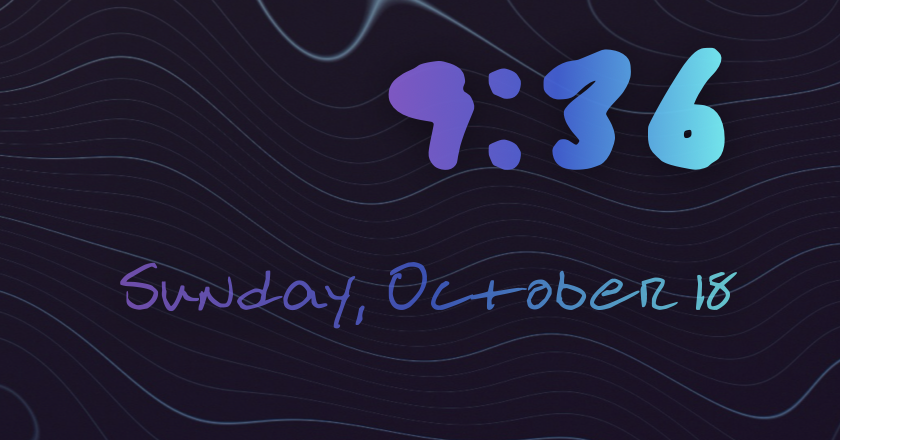
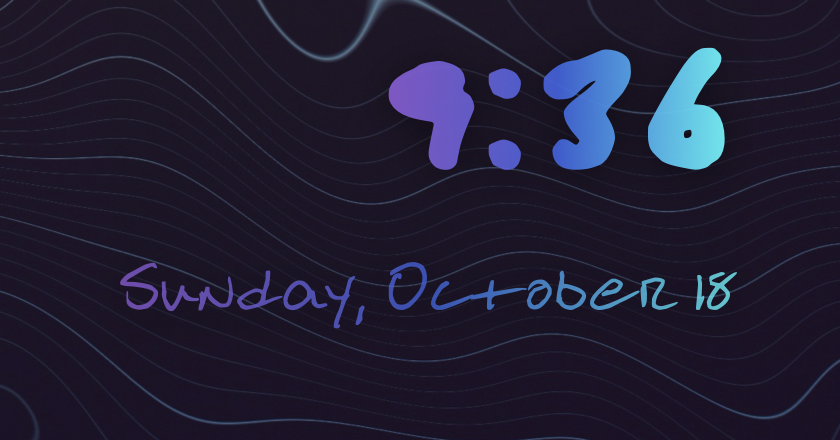
content(sanduhr): review fixes on both pages
From the copy review: the home card no longer says claude.ai is the only
network call (the app also checks for its own updates); the per-model card
names no single model; the config lead names one page, Mods & Config; meta
titles take a colon instead of an em-dash; the Windows headings take their
periods. From the asset review: the clock capture loses its blank strip, the
notch capture is centered, and the 2.4-era Accounts pane, captured from an
older build than the rest of the set, goes. The hero showcase runs wide, the
notch pane joins the Settings strip, the stage pills are shorter, and the
config pillar gains its sixth card, receipts with exact undo.

diff --git a/sanduhr/index.html b/sanduhr/index.html
@@ -4,7 +4,7 @@
 <meta charset="utf-8" />
 <meta name="viewport" content="width=device-width,initial-scale=1" />
 <meta name="release-reviewed" content="estevanhernandez-stack-ed/Sanduhr_f-r_Claude@v2.27.0-mac" />
-<title>Sanduhr für Claude for Mac — your claude.ai meters on the desktop, and your Claude Code setup carried · 626 Labs</title>
+<title>Sanduhr für Claude for Mac: your claude.ai meters on the desktop, and your Claude Code setup carried · 626 Labs</title>
 <meta name="description" content="The Mac build of Sanduhr für Claude: your claude.ai usage meters living on the desktop and around the notch, and one Settings page that reads and carries your whole Claude Code setup. Notarized, on Homebrew, macOS 14 or newer." />
 <link rel="canonical" href="https://626labs.dev/sanduhr/" />
 <meta property="og:title" content="Sanduhr für Claude for Mac" />
@@ -724,7 +724,7 @@ ol.steps li::before{ content:counter(step); position:absolute; left:0; top:-1px;
   </section>
 
   <section>
-    <div class="showcase"><div class="showcase-frame">
+    <div class="showcase wide"><div class="showcase-frame">
       <img src="screenshot-desk-full.jpg" alt="The Desk on a bare Mac desktop: Session, Weekly All Models and Weekly Sonnet meters in the top left corner, each with a pace mark and its reset time; a handwritten daily line, the Work account&#x27;s numbers and three made-up meetings in the bottom left; the clock and date in the bottom right; the time and the meters on the notch" />
     </div></div>
   </section>
@@ -804,10 +804,6 @@ ol.steps li::before{ content:counter(step); position:absolute; left:0; top:-1px;
     </div>
 
     <div class="gallery-strip align-start">
-      <div class="gallery-shot">
-        <img src="screenshot-settings-notch.png" alt="Sanduhr Settings, Notch: the island around the camera switched on, Text beside the camera with the left wing set to Time and the right wing to Now playing, Text under the camera off, and a Test Glow button above the preview" loading="lazy" />
-        <div class="caption"><strong>Notch settings</strong> &middot; each wing and the strip, your pick</div>
-      </div>
     </div>
       <div class="gallery-shot wide">
         <img src="screenshot-notch-wings.png" alt="The notch on a MacBook widened into one black island: the time on the left wing, and 5h 42% and wk 63% on the right" loading="lazy" />
@@ -820,7 +816,7 @@ ol.steps li::before{ content:counter(step); position:absolute; left:0; top:-1px;
       <h2>Your Claude Code setup, seen and carried.</h2>
     </div>
 
-    <p class="lead">Settings &rarr; Claude Code, and Mods &amp; Config: one page per Claude Code folder that reads everything first and writes only through receipts you can undo.</p>
+    <p class="lead">Mods &amp; Config, under Settings &rarr; Claude Code: one page per Claude Code folder that reads everything first and writes only through receipts you can undo.</p>
 
     <div class="cards">
       <div class="card">
@@ -843,14 +839,18 @@ ol.steps li::before{ content:counter(step); position:absolute; left:0; top:-1px;
         <h3>Claude writes your messages and themes</h3>
         <p>With the MCP server installed, Claude Code can suggest Desk messages, with effects like a glow or a line written in by hand, and propose widget themes as a live preview. Nothing changes until you approve it.</p>
       </div>
+      <div class="card">
+        <h3>Receipts, with exact undo</h3>
+        <p>Every write Sanduhr makes to a Claude Code folder is a receipt: what it created, and the bytes it replaced. Remove and Undo put the file back byte for byte, and the backups live in Sanduhr's own folder, never in yours.</p>
+      </div>
     </div>
 
     <ul class="stages">
-      <li><b>1</b><strong>Export.</strong> Pick a folder; the sheet shows what travels and what stays home.</li>
-      <li><b>2</b><strong>The pack.</strong> A manifest plus plain files. Secrets travel as names, never values.</li>
-      <li><b>3</b><strong>Import.</strong> Open the pack into any folder, on any Mac.</li>
-      <li><b>4</b><strong>Compare.</strong> A checkbox per difference; only what that folder lacks comes over.</li>
-      <li><b>5</b><strong>Keep, or undo.</strong> Every write is a receipt; Undo Import reverses them all.</li>
+      <li><b>1</b><strong>Export.</strong> Pick a folder; see what travels.</li>
+      <li><b>2</b><strong>Pack.</strong> Plain files plus a manifest; secrets as names.</li>
+      <li><b>3</b><strong>Import.</strong> Open it into any folder, on any Mac.</li>
+      <li><b>4</b><strong>Compare.</strong> A checkbox per difference.</li>
+      <li><b>5</b><strong>Keep, or undo.</strong> One Undo Import reverses it all.</li>
     </ul>
   </section>
 
@@ -920,10 +920,10 @@ ol.steps li::before{ content:counter(step); position:absolute; left:0; top:-1px;
       </div>
       <div class="card">
         <h3>Per-model weekly meters</h3>
-        <p>Your Claude Fable 5 allowance, tracked automatically. When Anthropic adds a limit for any new model, its meter just appears, no update needed.</p>
+        <p>Each per-model weekly allowance, tracked automatically. When Anthropic adds a limit for any new model, its meter just appears, no update needed.</p>
       </div>
       <div class="card">
-        <h3>Claude Usage tab + local vault</h3>
+        <h3>Claude Usage page + local vault</h3>
         <p>Local Claude Code logs become a dashboard: sessions by project with agent roll-up, weekly trends, a clickable calendar, sent/received splits, CSV export, and an opt-in vault that outlives the CLI's 30-day log cleanup.</p>
       </div>
       <div class="card">
@@ -961,10 +961,6 @@ ol.steps li::before{ content:counter(step); position:absolute; left:0; top:-1px;
       <div class="gallery-shot">
         <img src="screenshot-settings-alerts.png" alt="Sanduhr Settings, Alerts: Notifications off, Session and Weekly thresholds at 80%, the pace warning and reset notices unchecked, Where alerts show set to Banner, a Sound picker and Quiet hours from 10:00 PM to 7:00 AM" loading="lazy" />
         <div class="caption"><strong>Alerts</strong> &middot; thresholds, the pace warning, quiet hours</div>
-      </div>
-      <div class="gallery-shot">
-        <img src="screenshot-accounts.png" alt="Sanduhr Settings, Accounts: the account list with Work active, its session key field, Sign Out and Remove Account" loading="lazy" />
-        <div class="caption"><strong>Accounts</strong> &middot; one key and one history each</div>
       </div>
     </div>
   </section>

diff --git a/sanduhr/windows/index.html b/sanduhr/windows/index.html
@@ -4,7 +4,7 @@
 <meta charset="utf-8" />
 <meta name="viewport" content="width=device-width,initial-scale=1" />
 <meta name="release-reviewed" content="estevanhernandez-stack-ed/Sanduhr_f-r_Claude@v3.4.3" />
-<title>Sanduhr für Claude on Windows — your claude.ai usage, paced, from the Microsoft Store · 626 Labs</title>
+<title>Sanduhr für Claude on Windows: your claude.ai usage, paced, from the Microsoft Store · 626 Labs</title>
 <meta name="description" content="The Windows build of Sanduhr für Claude: a native .NET widget with Win11 Mica glass that paces your claude.ai usage, plus a statusline and MCP server for Claude Code. Free on the Microsoft Store." />
 <link rel="canonical" href="https://626labs.dev/sanduhr/windows/" />
 <meta property="og:title" content="Sanduhr für Claude on Windows" />
@@ -744,7 +744,7 @@ ol.steps li::before{ content:counter(step); position:absolute; left:0; top:-1px;
       </div>
       <div class="card">
         <h3>Per-model weekly meters</h3>
-        <p>Your Claude Fable 5 allowance, tracked automatically. When Anthropic adds a limit for any new model, its meter just appears, no update needed.</p>
+        <p>Each per-model weekly allowance, tracked automatically. When Anthropic adds a limit for any new model, its meter just appears, no update needed.</p>
       </div>
       <div class="card">
         <h3>Claude Usage tab + local vault</h3>
@@ -790,7 +790,7 @@ ol.steps li::before{ content:counter(step); position:absolute; left:0; top:-1px;
 
   <section id="install">
     <div class="section-hd">
-      <h2>Install</h2>
+      <h2>Install.</h2>
     </div>
 
     <div class="install-grid">
@@ -822,7 +822,7 @@ ol.steps li::before{ content:counter(step); position:absolute; left:0; top:-1px;
 
   <section>
     <div class="section-hd">
-      <h2>Where it ended up</h2>
+      <h2>Where it ended up.</h2>
     </div>
 
     <p class="lead">Every Microsoft Store install since launch, plotted by country. Dot area is proportional to install count.</p>

diff --git a/index.html b/index.html
@@ -2074,7 +2074,7 @@
           </div>
         </div>
         <h3>Sanduhr für Claude</h3>
-        <p class="product-desc">On the Mac, your claude.ai usage meters live on the desktop and around the notch: session and weekly limits drawn under your windows with a pace mark and reset time on each, the clock, your next meetings and a daily line in a handwritten face, and since 2.27.0 the Desk can sit under your desktop files. One Settings page reads your whole Claude Code setup, agents, skills, plugins, MCP servers and settings per folder, and carries it to another Mac as a config pack with Compare and Undo Import. Burn-rate projection, pace markers, sparklines and per-model weekly meters do the pacing math; the Claude Usage page turns local Claude Code logs into a dashboard. Homebrew or a notarized .dmg on Mac; free on the Microsoft Store on Windows, with a statusline and MCP server for Claude Code. No telemetry: the only network call is to claude.ai with your own cookie.</p>
+        <p class="product-desc">On the Mac, your claude.ai usage meters live on the desktop and around the notch: session and weekly limits drawn under your windows with a pace mark and reset time on each, the clock, your next meetings and a daily line in a handwritten face. Since 2.27.0 the Desk can sit under your desktop files. One Settings page reads your whole Claude Code setup per folder and carries it to another Mac as a config pack, with Compare and Undo Import. Homebrew or a notarized .dmg on Mac; free on the Microsoft Store on Windows, with a statusline and MCP server for Claude Code. No telemetry: it talks to claude.ai with your own cookie, checks for its own updates, and nothing else.</p>
         <div class="repo-meter" data-repo="estevanhernandez-stack-ed/Sanduhr_f-r_Claude" aria-label="Commit activity for Sanduhr für Claude"></div>
         <div class="badge-row">
           <a class="store-badge" href="https://apps.microsoft.com/detail/9NH3NK2RGCF5?cid=site-home" rel="noopener">
